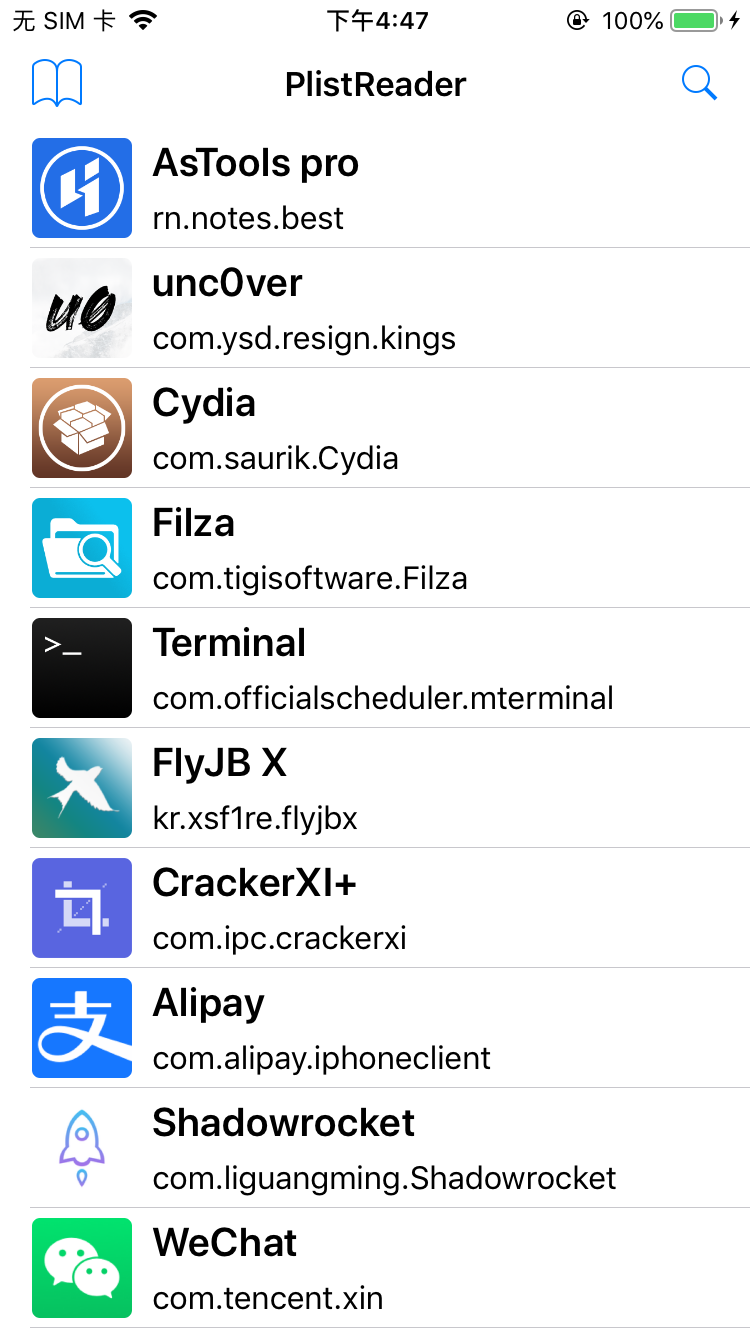
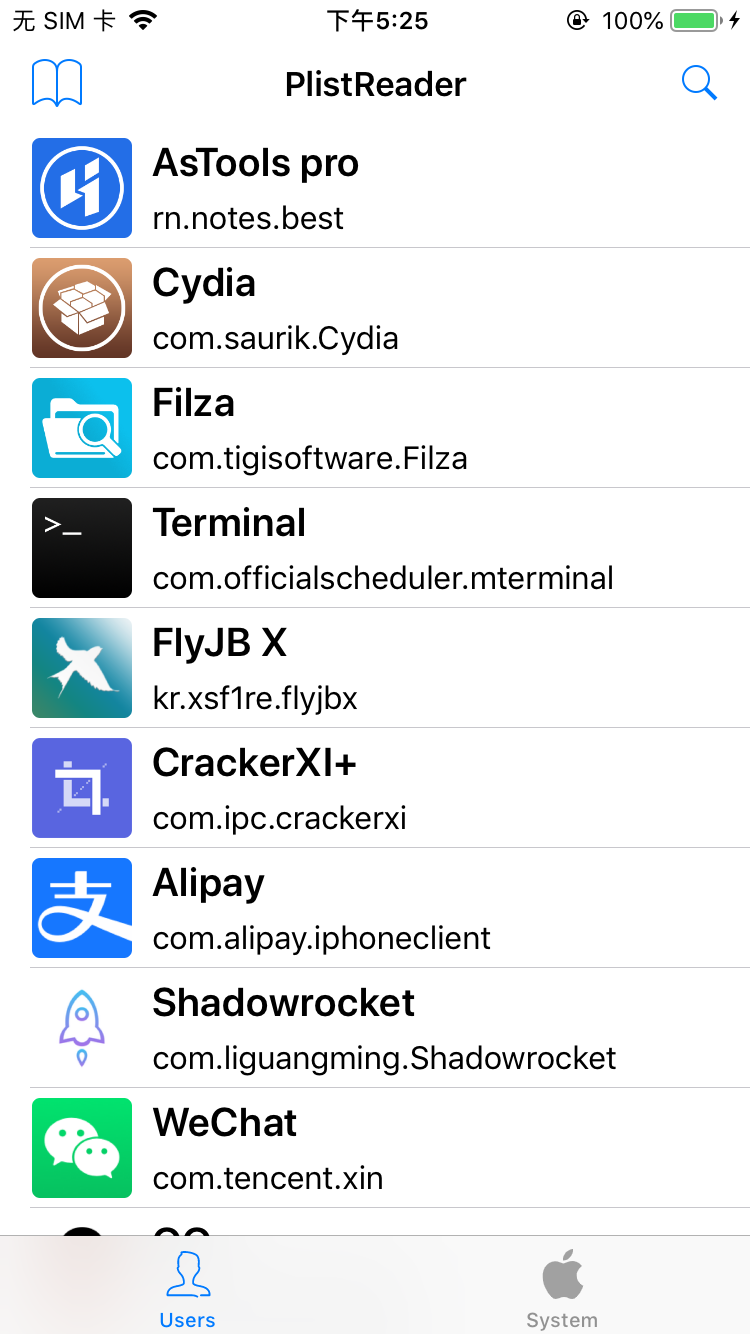
更新readme和图片

diff --git a/README.md b/README.md
@@ -5,6 +5,8 @@ An application can read other application's plist file.
 
 <img src="https://github.com/paradiseduo/PlistReader/blob/main/Image/1.PNG?raw=true" width="30%">
 
+<img src="https://github.com/paradiseduo/PlistReader/blob/main/Image/4.PNG?raw=true" width="30%">
+
 <img src="https://github.com/paradiseduo/PlistReader/blob/main/Image/2.PNG?raw=true" width="30%">
 
 <img src="https://github.com/paradiseduo/PlistReader/blob/main/Image/3.PNG?raw=true" width="30%">
